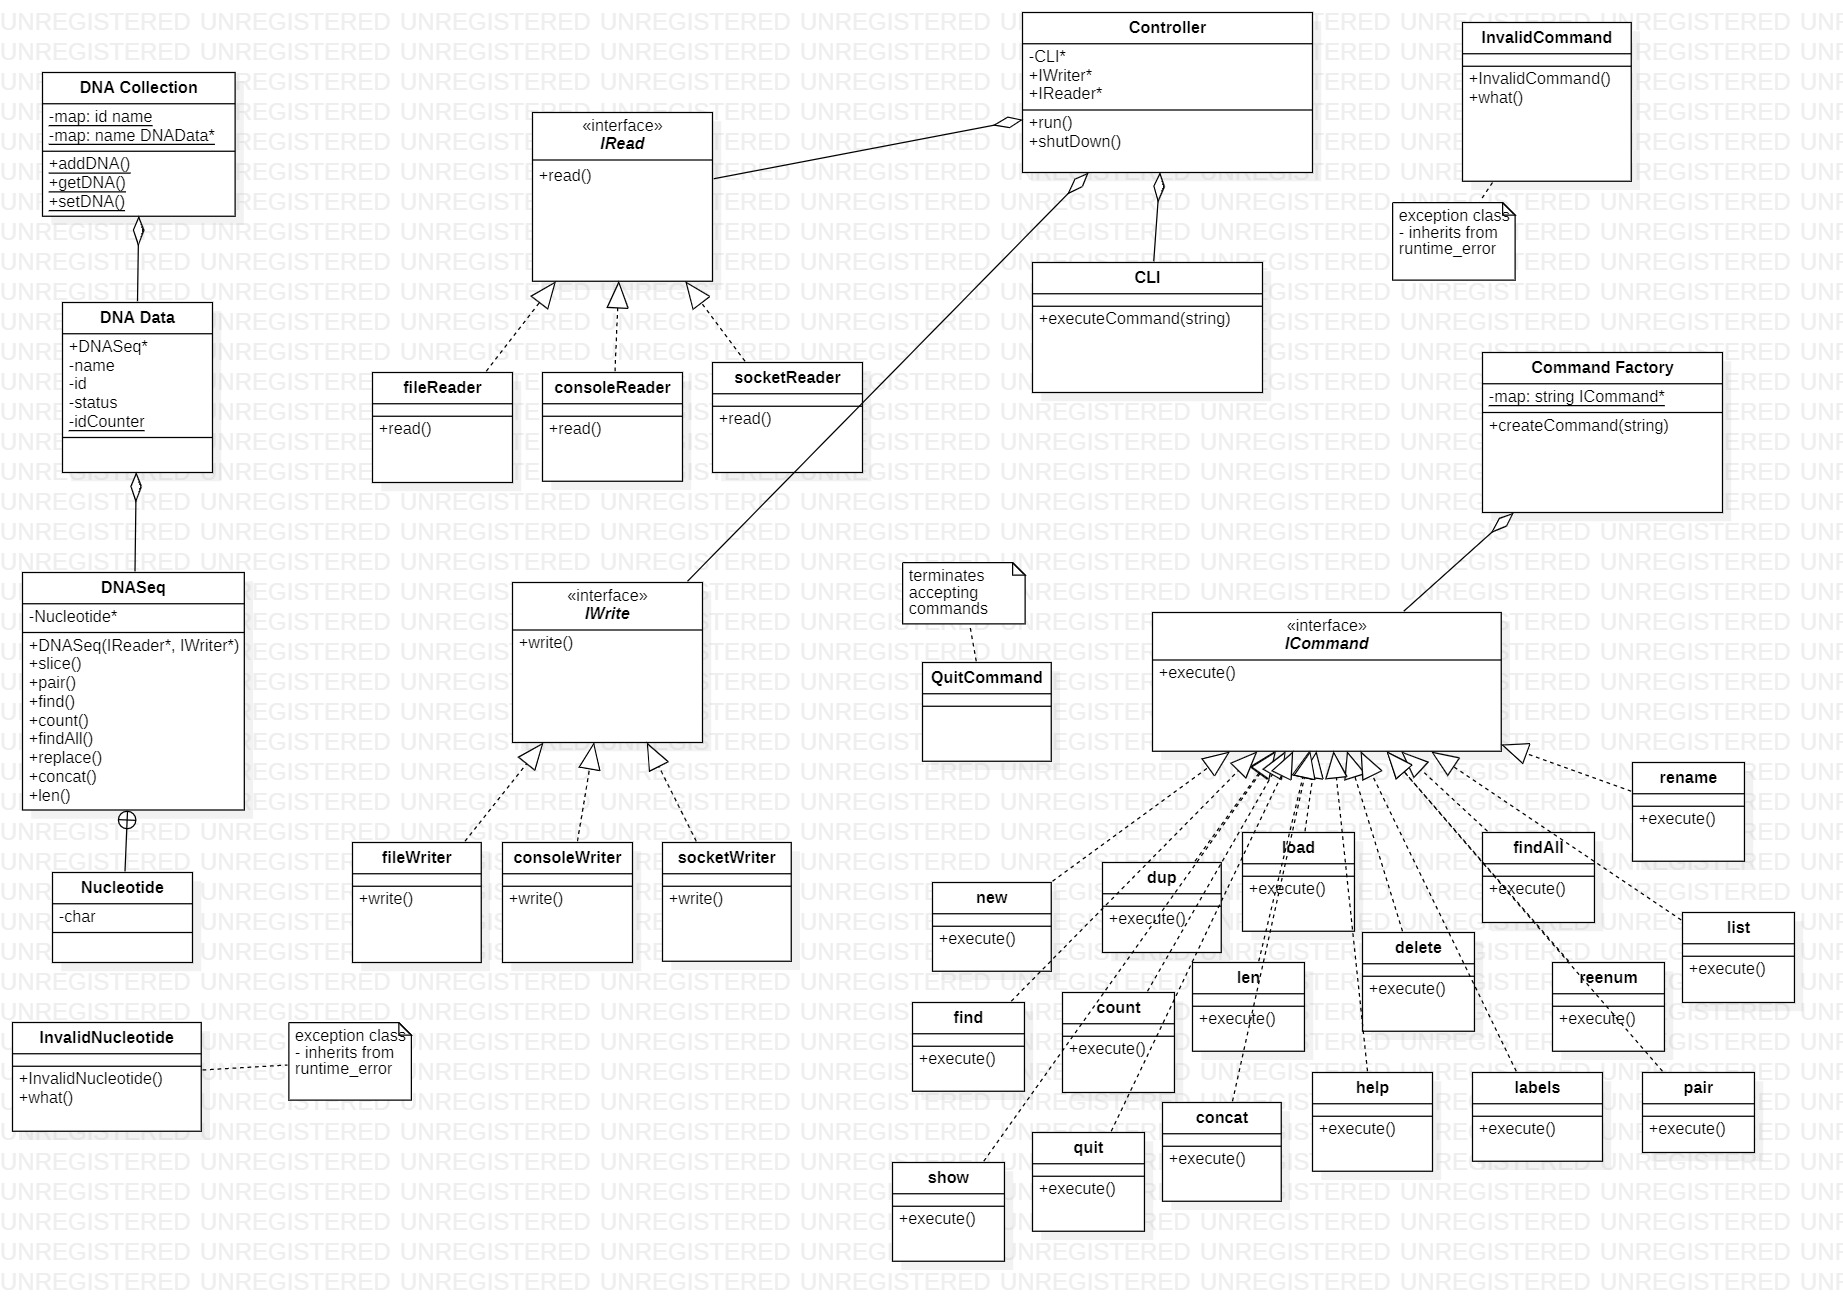
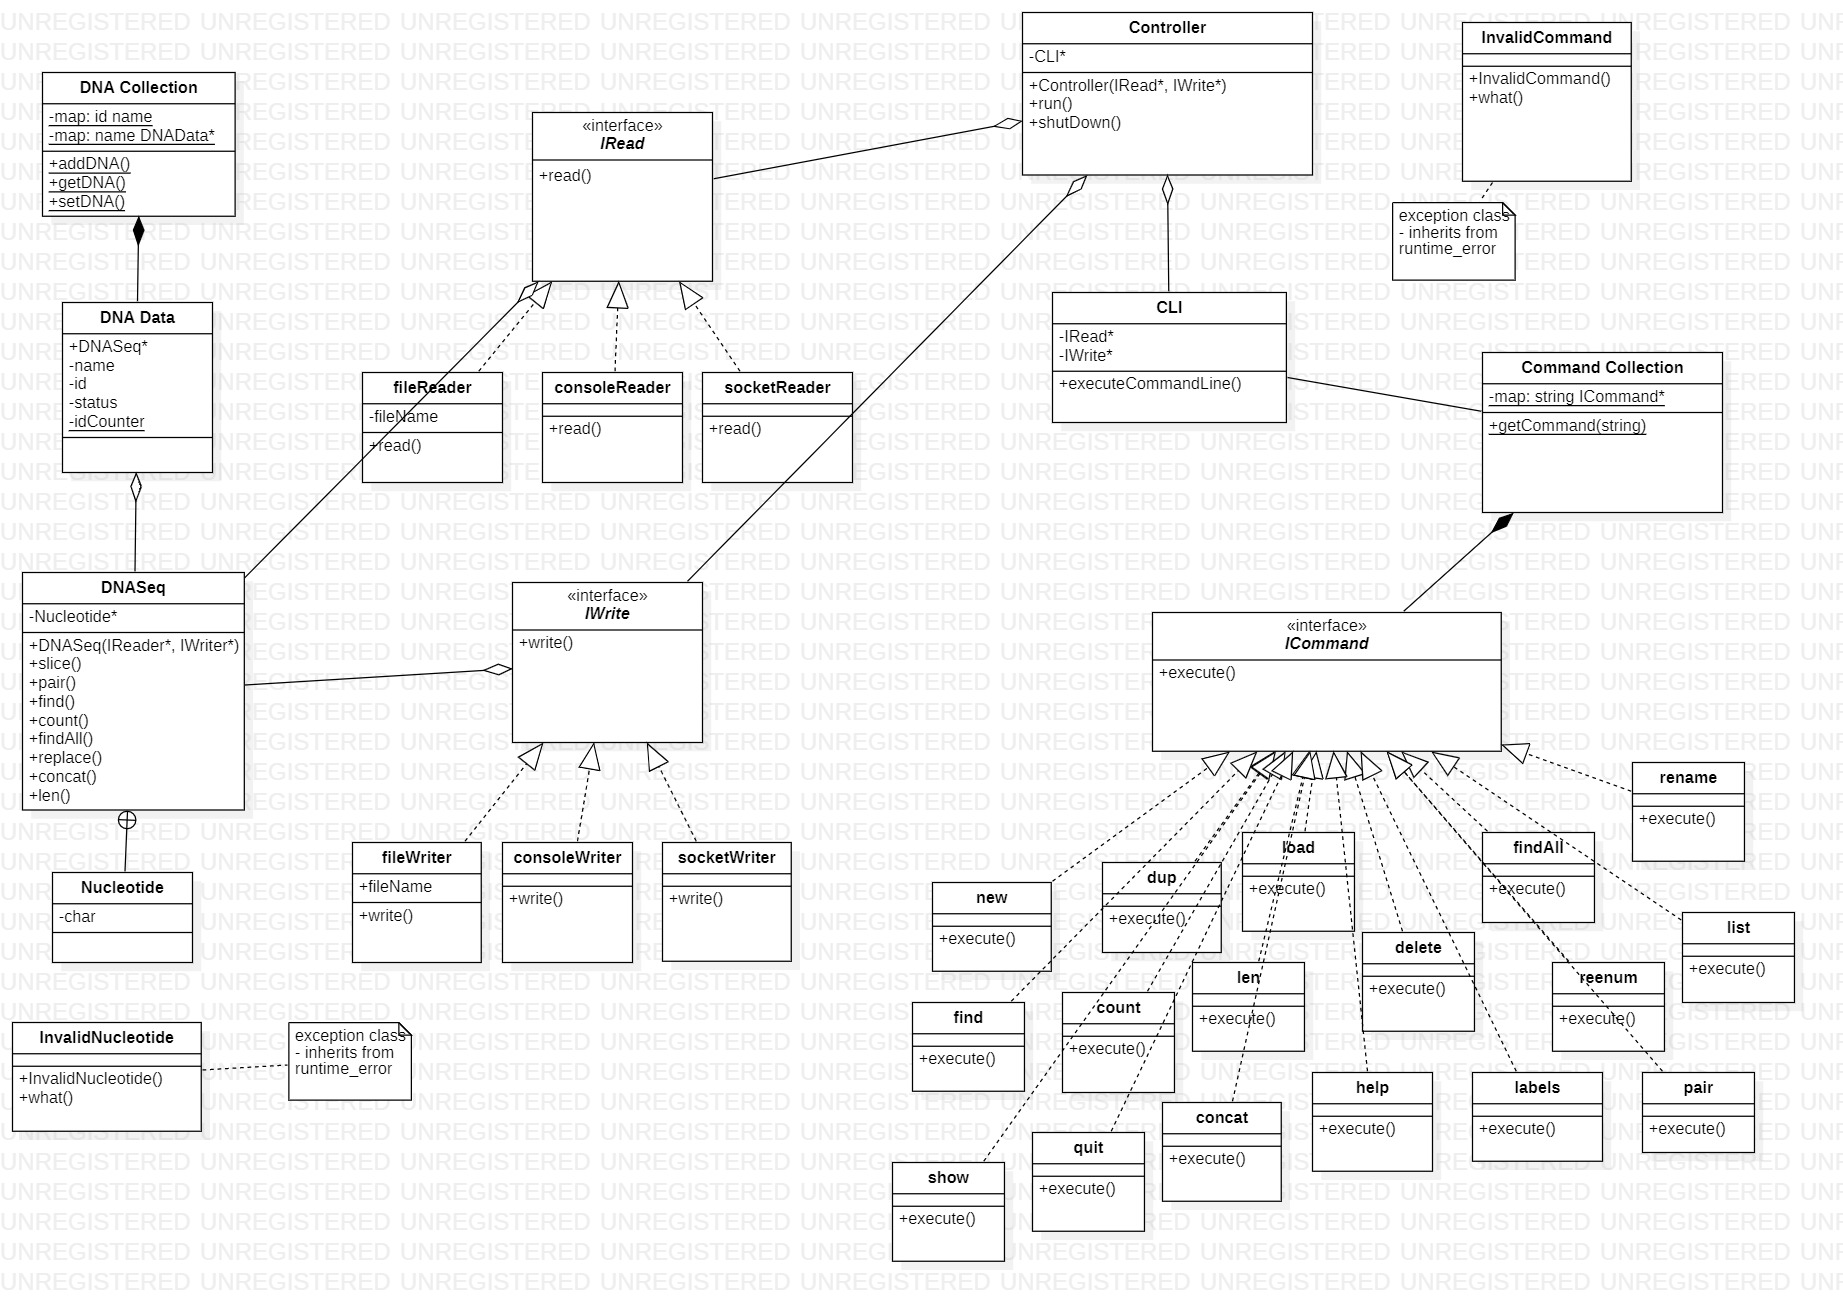
second phase

diff --git a/SRC/cli.h b/SRC/cli.h
@@ -60,7 +60,7 @@ class CLI
 public:
 	CLI(IRead *reader, IWrite *writer);
 
-	void executeCommand();
+	void executeCommandLine();
 
 private:
 	IRead *m_reader;
@@ -73,7 +73,7 @@ inline CLI::CLI(IRead *reader, IWrite *writer):m_reader(reader),m_writer(writer)
 {
 }
 
-inline void CLI::executeCommand()
+inline void CLI::executeCommandLine()
 {
 	std::string input, output;
 	input = m_reader->read();

diff --git a/SRC/Commands/command_collection.h b/SRC/Commands/command_collection.h
@@ -7,7 +7,7 @@
 #include "save.h"
 #include "new.h"
 #include "quit.h"
-#include "invalid_command.h"
+#include "../Exceptions/invalid_command.h"
 #include "icommand.h"
 
 class CommandCollection

diff --git a/SRC/controller.h b/SRC/controller.h
@@ -47,7 +47,7 @@ inline void Controller::run() const
 {
 	while(true)
 	{
-		m_cli->executeCommand();
+		m_cli->executeCommandLine();
 	}
 }
 
